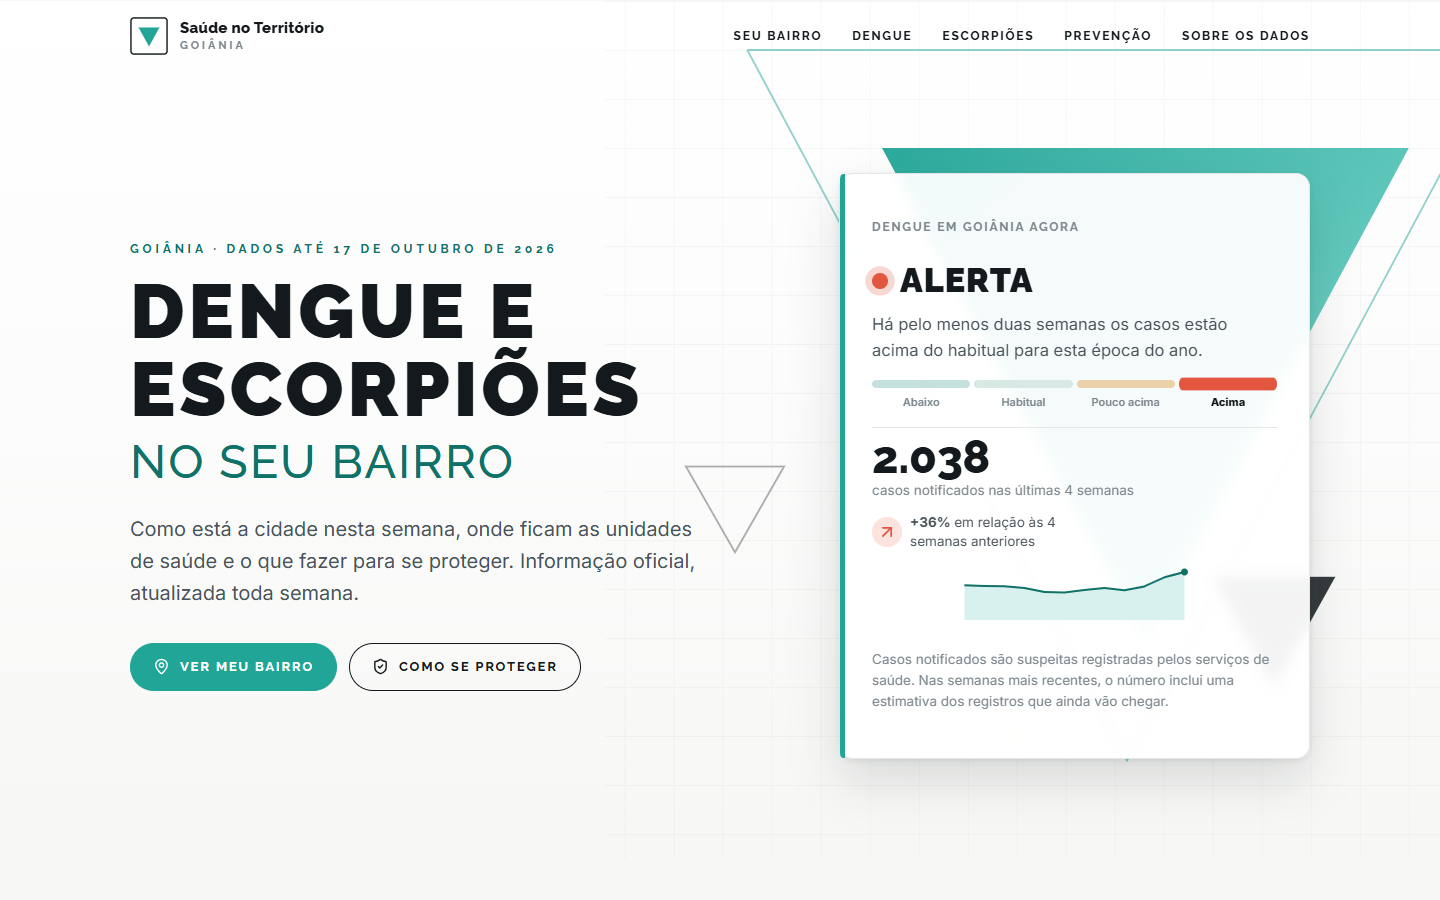
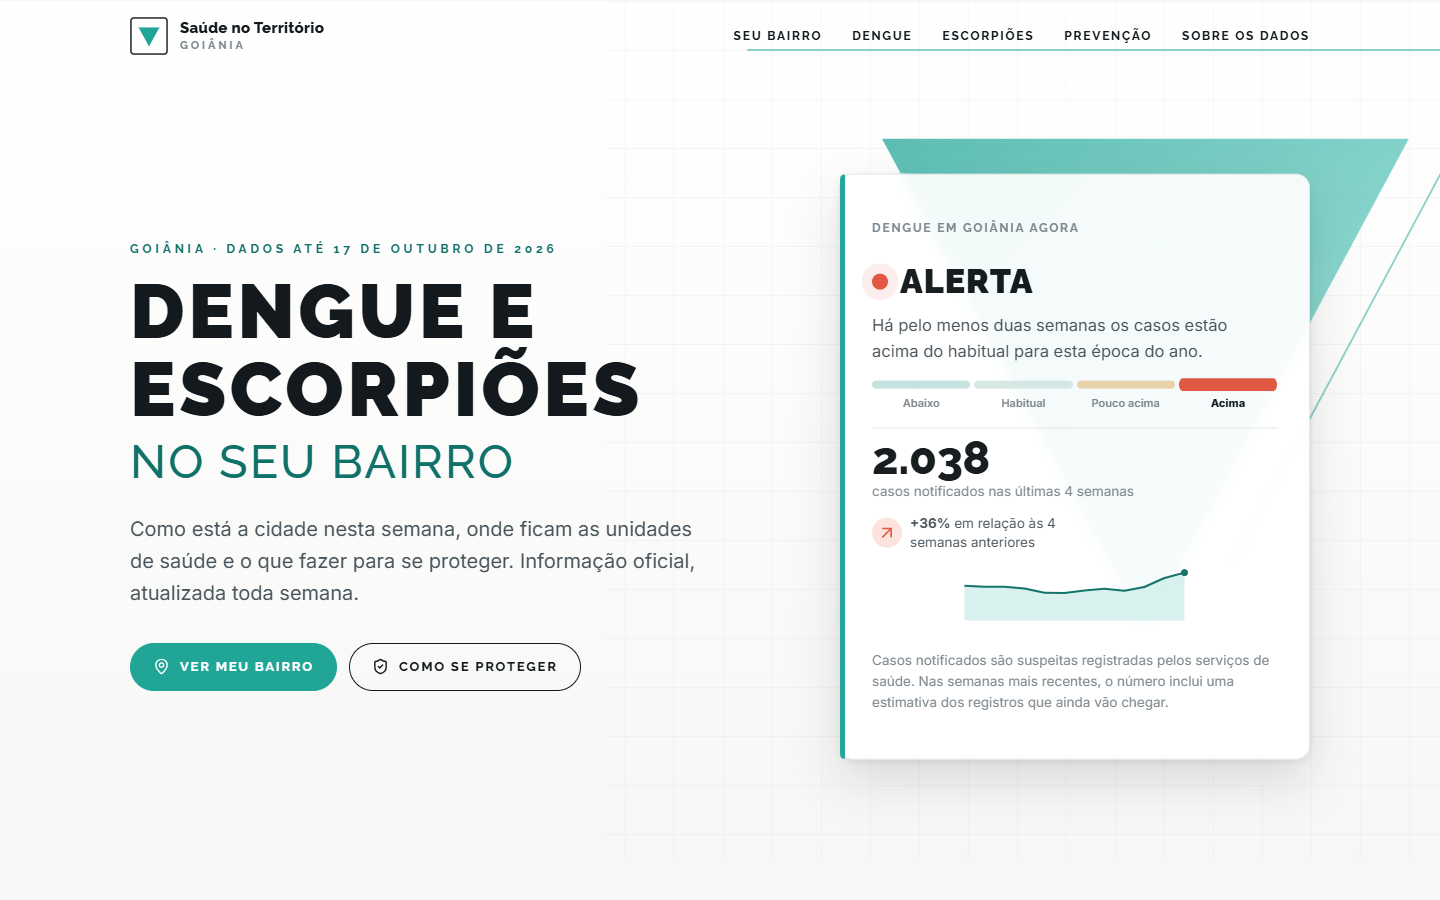
Prepara a publicação do site público no GitHub Pages
- pipeline.publicar_site envia site/dist ao ramo gh-pages do origin
- atualizar_semanal.ps1 publica após o pipeline e os testes passarem
- Link do painel da equipe só aparece no servidor local

diff --git a/site/src/components/SecaoSobre.tsx b/site/src/components/SecaoSobre.tsx
@@ -31,7 +31,8 @@ export function SecaoSobre({ dados }: { dados: DadosSite }) {
         <Revelar className="atualizacao">
           <RefreshCw size={20} aria-hidden="true" />
           <p>Os dados são atualizados toda semana. Esta versão usa registros até <strong>{dataLonga(dados.dados_ate)}</strong>. Os números das semanas mais recentes podem mudar, porque parte dos casos é registrada com atraso.</p>
-          <a className="botao" href="equipe/">Painel técnico da equipe</a>
+          {/* O painel da equipe só existe no servidor local; no site publicado o link não aparece. */}
+          {['localhost', '127.0.0.1'].includes(window.location.hostname) && <a className="botao" href="equipe/">Painel técnico da equipe</a>}
         </Revelar>
       </div>
     </section>

diff --git a/pipeline/publicar_site.py b/pipeline/publicar_site.py
@@ -1,0 +1,42 @@
+"""Publica o site público (site/dist) no GitHub Pages, no ramo gh-pages do repositório `origin`.
+
+    .venv/Scripts/python.exe -m pipeline.publicar_site
+
+Só a pasta compilada do site vai para o ramo gh-pages; o painel da equipe e a API não são
+publicados. O ramo é refeito a cada publicação (um commit), sem tocar no ramo main.
+"""
+from datetime import datetime, timezone
+import json
+from pathlib import Path
+import shutil
+import subprocess
+import sys
+import tempfile
+
+ROOT = Path(__file__).resolve().parents[1]
+DIST = ROOT / 'site/dist'
+
+
+def git(*args, cwd):
+    subprocess.run(['git', *args], cwd=cwd, check=True)
+
+
+def main():
+    if not (DIST / 'index.html').exists() or not (DIST / 'dados/site.json').exists():
+        raise SystemExit('site/dist não está compilado. Rode: .venv/Scripts/python.exe -m pipeline')
+    remoto = subprocess.run(['git', 'remote', 'get-url', 'origin'], cwd=ROOT, capture_output=True, text=True, check=True).stdout.strip()
+    dados_ate = json.loads((DIST / 'dados/site.json').read_text(encoding='utf-8'))['dados_ate']
+    with tempfile.TemporaryDirectory() as pasta:
+        pasta = Path(pasta)
+        shutil.copytree(DIST, pasta, dirs_exist_ok=True)
+        (pasta / '.nojekyll').write_text('', encoding='utf-8')  # serve os arquivos como estão
+        git('init', '-q', '-b', 'gh-pages', cwd=pasta)
+        git('add', '-A', cwd=pasta)
+        git('-c', 'user.name=Publicação automática', '-c', 'user.email=contato.omniamind@gmail.com',
+            'commit', '-q', '-m', f'Site publicado em {datetime.now(timezone.utc):%Y-%m-%d %H:%M} UTC · dados até {dados_ate}', cwd=pasta)
+        git('push', '-q', '--force', remoto, 'gh-pages', cwd=pasta)
+    print(f'Site publicado no ramo gh-pages de {remoto} (dados até {dados_ate}).')
+
+
+if __name__ == '__main__':
+    sys.exit(main())

diff --git a/README.md b/README.md
@@ -59,6 +59,12 @@ Requisitos: Windows, Microsoft Edge e o [uv](https://docs.astral.sh/uv/) (`winge
 - **Referências:** `dados/referencias.json` fixa a competência do CNES e a coleta SIGGO que definem os parceiros, a seleção dos territórios e o mapa. O `--coletar` usa essas versões. Mudá-las é uma decisão da equipe, e o teste `verificar_referencias` para o pipeline se os dados locais divergirem delas.
 - **Fontes oficiais baixadas de novo:** SINAN, INMET e IBGE. O DATASUS pode publicar revisões dos arquivos, então os números podem mudar um pouco. Os manifestos em `dados/` registram o hash de cada arquivo usado nesta versão, e a comparação mostra o que mudou.
 
+### Site público no GitHub Pages
+
+Endereço: https://kauandivino.github.io/arboviruses/
+
+`python -m pipeline.publicar_site` envia só a pasta compilada do site (`site/dist`) para o ramo `gh-pages`. O painel da equipe e a API de ações de campo não são publicados; o link para o painel só aparece quando o site roda no computador local. A atualização semanal publica automaticamente depois que todo o pipeline e os testes passam. No GitHub, a configuração é feita uma vez, em Settings → Pages: "Deploy from a branch", ramo `gh-pages`, pasta `/ (root)`.
+
 ### Publicar uma versão no GitHub
 
 Depois de criar o repositório e enviar o código, anexe o pacote a uma release (com o [GitHub CLI](https://cli.github.com/)):
